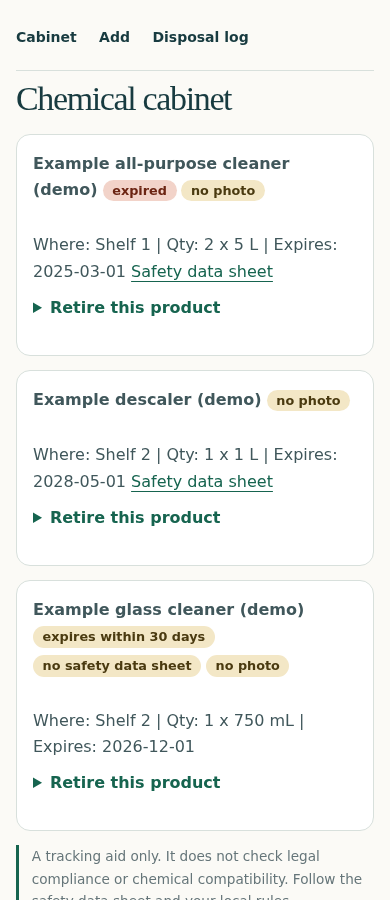
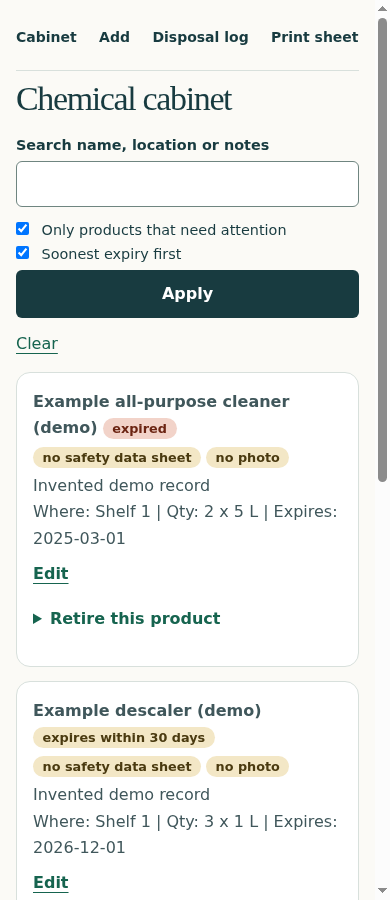
Update the project site with current captures and features (#13)

diff --git a/docs/index.html b/docs/index.html
@@ -28,16 +28,16 @@
 </div>
 </div>
 <div class="faces">
-<figure><div class="window-bar" style="display:flex;justify-content:space-between;padding:12px 18px;color:#b9cdc8;font-size:9px;letter-spacing:.13em;font-weight:650"><span style="letter-spacing:5px;color:#728d89">&bull;&bull;&bull;</span><span>CABINET PAGE</span></div><img src="assets/app-desktop.png" alt="The cabinet page in a desktop browser, listing three demo products with review flags"><figcaption>Real capture of the app with invented demo data. Flags shown: expired, expires within 30 days, no photo, no safety data sheet.</figcaption></figure>
+<figure><div class="window-bar" style="display:flex;justify-content:space-between;padding:12px 18px;color:#b9cdc8;font-size:9px;letter-spacing:.13em;font-weight:650"><span style="letter-spacing:5px;color:#728d89">&bull;&bull;&bull;</span><span>CABINET PAGE</span></div><img src="assets/app-desktop.png" alt="The cabinet page in a desktop browser, filtered to products that need attention and sorted by expiry, with review flags on each demo product"><figcaption>Real capture of the app with invented demo data, filtered to products that need attention and sorted by soonest expiry. Flags shown: expired, expires within 30 days, no photo, no safety data sheet.</figcaption></figure>
 <figure><img src="assets/app-mobile.png" alt="The cabinet page on a phone"><figcaption>Same page at phone width. Demo data only.</figcaption></figure>
 </div>
 </section>
 </main>
 </div>
 <div class="summary-band"><div class="wrap summary">
-<p><strong>Review flags</strong><span>Expired, expires within 30 days, no expiry date, no safety data sheet, no photo.</span></p>
+<p><strong>Review flags</strong><span>Expired, expires within 30 days, no expiry date, no safety data sheet, no photo. Search, show only what needs attention, sort by expiry, edit records.</span></p>
 <p><strong>Disposal log</strong><span>Retire a product with a reason and how it was disposed of.</span></p>
-<p><strong>No accounts, no cloud</strong><span>One folder holds everything. Copy it to back up.</span></p>
+<p><strong>No accounts, no cloud</strong><span>One folder holds everything. A built-in command makes and checks offline backups; stop the app first.</span></p>
 </div></div>
 <div class="wrap">
 <section class="section start-section" id="start">

diff --git a/CHANGELOG.md b/CHANGELOG.md
@@ -2,6 +2,7 @@
 
 ## Unreleased
 
+- Project site: new captures (filters, current form borders) and text for search, backups and editing.
 - MCP read tools take optional `limit` and `offset`; a second text block says when more records remain. Pages are not a snapshot (see docs/AI-AGENTS.md).
 - Form field borders are darker so the boundary of each field reaches 3:1 contrast (WCAG 1.4.11), with a test.
 - MCP server: malformed tool parameters (non-object params, non-string name, non-object arguments) now get a JSON-RPC -32602 error instead of ending the session.
